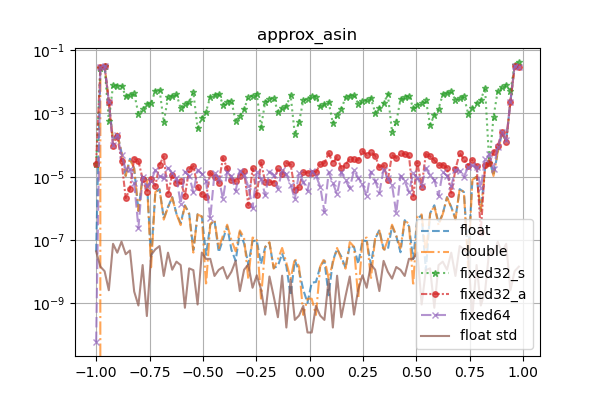
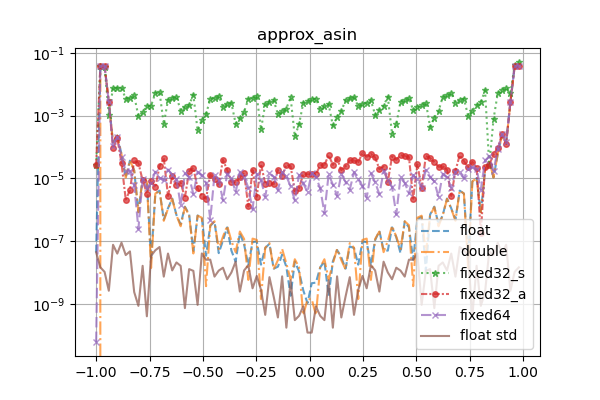
Improved deriverate stability.

Changed region(s): [[0.06, 0.12, 0.9, 0.78], [0.06, 0.57, 0.12, 0.63]]

diff --git a/src/lib/polyapprox.h b/src/lib/polyapprox.h
@@ -139,6 +139,18 @@ class PolyApprox {
 
 
         template<typename T>
+        T max(T a, T b) {
+            return a > b ? a : b;
+        }
+
+                
+        template<typename T>
+        T absmax(T a, T b) {
+            return max<T>(abs<T>(a), abs<T>(b));
+        }
+
+
+        template<typename T>
         int sign(T x) {
             if (x < 0) return -1;
             if (x > 0) return 1;
@@ -151,6 +163,7 @@ class PolyApprox {
         resize_coefficients(unsigned new_size) {
             coefficients.resize(new_size);
         }
+        
 
         template<typename CT>
         typename std::enable_if<std::is_same<CT, static_coefficients>::value, void>::type 
@@ -159,16 +172,18 @@ class PolyApprox {
 
         template <typename Calculable>
         void __fit(const std::function<Calculable(Calculable)>& src, unsigned part_count, Calculable range_min, Calculable range_max, Calculable dx=1e-3) {
-            this->resize_coefficients<coefficients_type>(part_count);
-
+            
+            constexpr const Calculable mid_der_k = Calculable(3) / Calculable(2);
             Calculable inc = (range_max - range_min) / part_count;
+            Calculable half_inc = inc / 2;
             Calculable inv_inc = Calculable(1) / inc;
             Calculable inv_inc2 = inv_inc * inv_inc;
             Calculable inv_inc3 = inv_inc2 * inv_inc;
             Calculable idx = Calculable(1) / dx;
-            Calculable idx2 = idx / 2;
+            Calculable half_idx = idx / 2;
             this->range_min = range_min;
             this->inv_incrementator = inv_inc;
+            this->resize_coefficients<coefficients_type>(part_count);
 
             Calculable prev_value = src(range_min);
             Calculable prev_deriverate = (src(range_min+dx) - prev_value) * inc * idx;
@@ -177,12 +192,14 @@ class PolyApprox {
             for (unsigned i=1;i<=part_count;i++) {
                 Calculable x = range_min + i * inc;
                 Calculable value = src(x);
-                Calculable new_deriverate = ((i<part_count) ? ((src(x+dx) - src(x-dx)) * idx2) : ((value - src(x-dx)) * idx)) * inc;
+                Calculable v_mid = src(x - half_inc);
+                Calculable new_deriverate = ((i<part_count) ? ((src(x+dx) - src(x-dx)) * half_idx) : ((value - src(x-dx)) * idx)) * inc;
                 Calculable deriverate = new_deriverate;
                 Calculable vx = value - prev_value;
-                Calculable max_deriverate = 3 * abs<Calculable>(vx);
-                if (abs<Calculable>(prev_deriverate) > max_deriverate)
-                    prev_deriverate = max_deriverate*sign<Calculable>(prev_deriverate);
+                Calculable max_prev_deriverate = 3 * absmax<Calculable>(mid_der_k * (v_mid - prev_value), vx);
+                Calculable max_deriverate = 3 * absmax<Calculable>(mid_der_k * (v_mid - value), vx);
+                if (abs<Calculable>(prev_deriverate) > max_prev_deriverate)
+                    prev_deriverate = max_prev_deriverate*sign<Calculable>(prev_deriverate);
                 if (abs<Calculable>(deriverate) > max_deriverate)
                     deriverate = max_deriverate*sign<Calculable>(deriverate);
 
